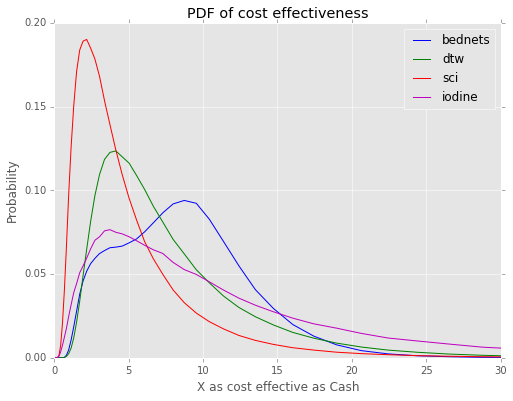
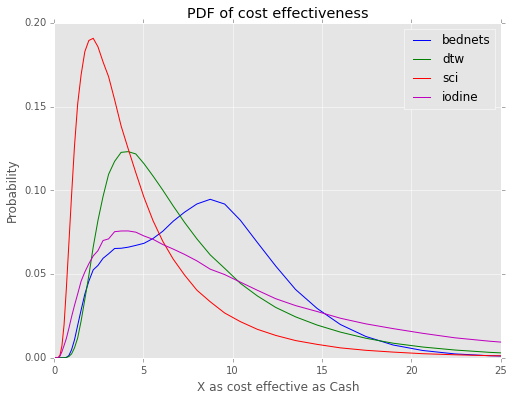
dist graph axis tweak

diff --git a/ea_test.py b/ea_test.py
@@ -23,7 +23,7 @@ def get_rvs(p, n):
         return p['val']
 
 if __name__ == '__main__':
-    n = 100000
+    n = 1000000
     
     with open('params.json') as fp:    
         params = json.load(fp)
@@ -301,7 +301,7 @@ if __name__ == '__main__':
     plt.plot((dtw_x[:-1] + dtw_x[1:])/2.0, dtw_y, label='dtw', color='g')
     plt.plot((sci_x[:-1] + sci_x[1:])/2.0, sci_y, label='sci', color='r')
     plt.plot((iodine_x[:-1] + iodine_x[1:])/2.0, iodine_y, label='iodine', color='m')
-    plt.xlim([0, 30])
+    plt.xlim([0, 25])
     plt.xlabel('X as cost effective as Cash')
     plt.ylabel('Probability')
     plt.title('PDF of cost effectiveness')
